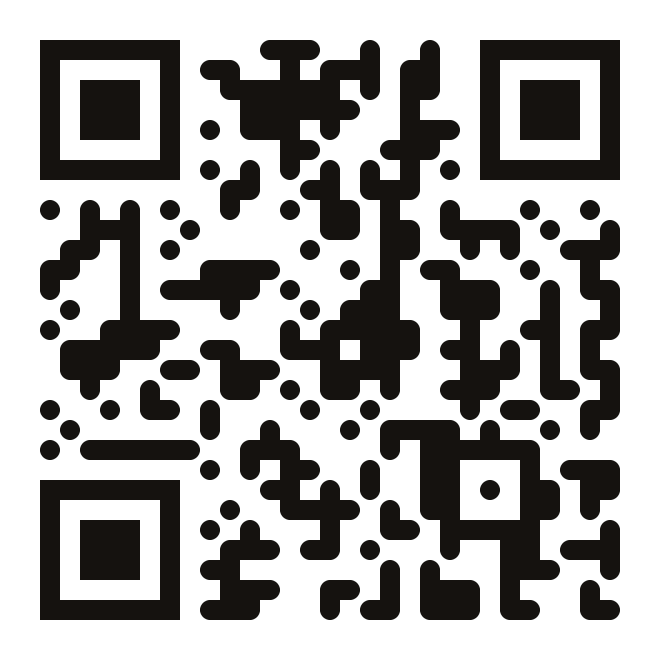
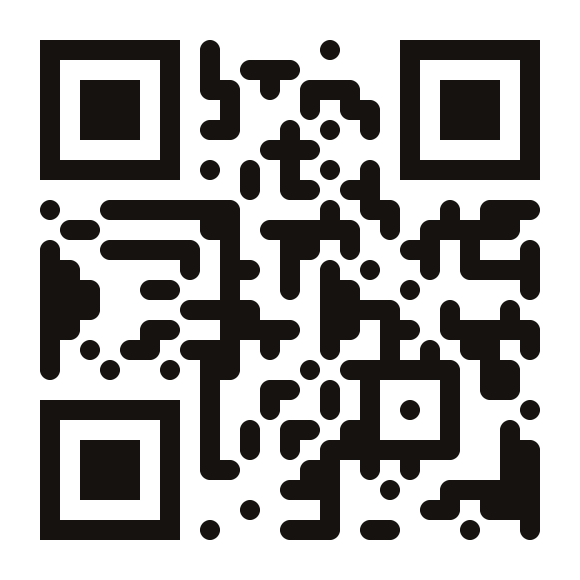
QR kod: presmerovanie na www.depoloco.sk
Domena este nie je kupena, klient chcel QR aj tak nasmerovat na nu.
README upozornuje, ze treba overit po kupe/nasmerovani domeny.

diff --git a/README.md b/README.md
@@ -108,15 +108,16 @@ v novom okne.
 - súhlas fotografov s použitím fotiek
 
 ## QR kód
-`img/qr.png` odkazuje na web. Vygeneroval ho `gen_qr.py`:
+`img/qr.png` odkazuje na `https://www.depoloco.sk`. Vygeneroval ho `gen_qr.py`:
 
 ```bash
-python3 gen_qr.py https://presna-adresa-webu.sk
+python3 gen_qr.py https://www.depoloco.sk
 ```
 
-**Momentálne obsahuje len placeholder adresu** (`https://depo-loco-web.vercel.app`) -
-akonáhle je jasná finálna doména (vlastná doména alebo potvrdená Vercel adresa),
-treba QR prekódovať skriptom vyššie, inak bude QR viesť na neplatný/dočasný odkaz.
+**Doména `depoloco.sk` ešte nie je kúpená** - QR aj tak odkazuje na ňu, pretože to tak
+chcel klient. Kým doména nebude aktívna (DNS smerujúci na Vercel), QR vedie na
+neexistujúcu stránku. Akonáhle je doména kúpená a nasmerovaná, over že QR funguje
+(naskenuj ho) - inak sa netreba k nemu vracať.
 
 ## Nasadenie
 - **Repo:** https://github.com/majsteshifu/depo-loco-web (verejné, vetva `main`)
